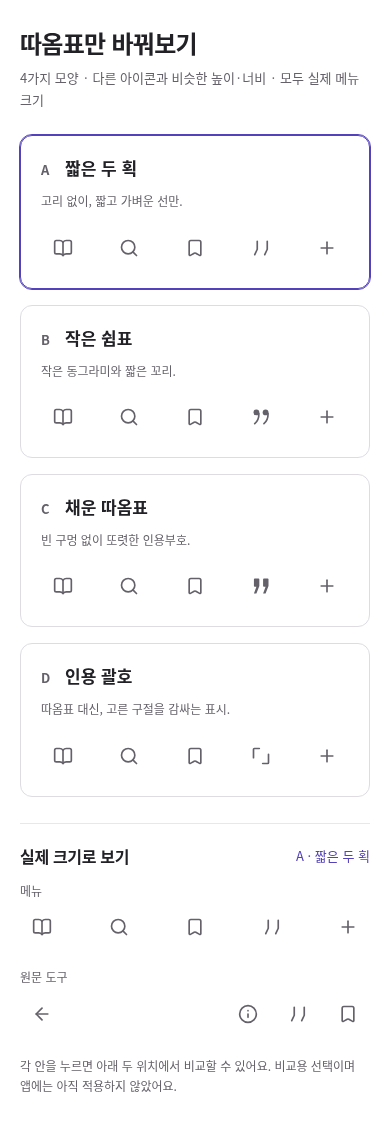
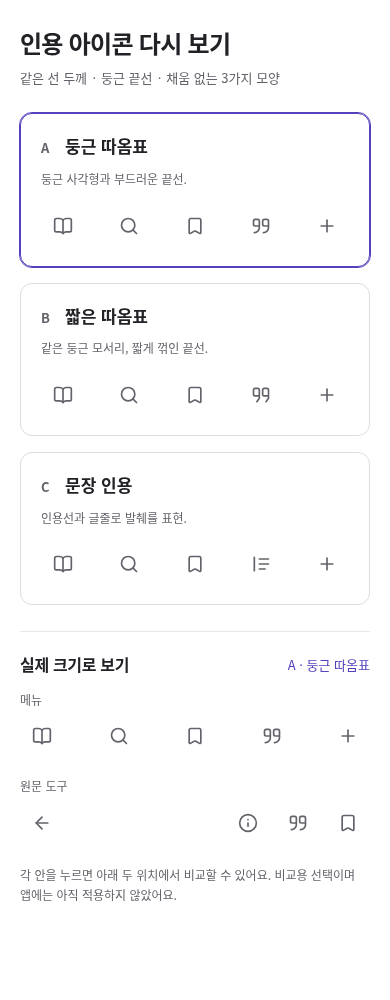
Redraw quote options in the neighboring outline style

diff --git a/assets/design-social/quote-options.js b/assets/design-social/quote-options.js
@@ -1,4 +1,4 @@
-/* Four original quote candidates. Neighbor SVGs: Lucide 1.51.0;
+/* Three original outline candidates. Neighbor SVGs: Lucide 1.51.0;
    source and ISC/Feather MIT notices: vendor/lucide/. Comparison only. */
 (() => {
   'use strict';
@@ -11,14 +11,12 @@
   "info": "<circle cx=\"12\" cy=\"12\" r=\"10\" /><path d=\"M12 16v-4\" /><path d=\"M12 8h.01\" />"
 };
   const options = [
-    { id:'a', name:'짧은 두 획', description:'고리 없이, 짧고 가벼운 선만.',
-      shape:'<path d="M7.5 4v9.5L4.5 20M19.5 4v9.5L16.5 20"/>' },
-    { id:'b', name:'작은 쉼표', description:'작은 동그라미와 짧은 꼬리.',
-      shape:'<circle cx="6.5" cy="6.5" r="3.5" fill="currentColor" stroke="none"/><path d="M9.5 8c0 5-1.5 9-5 12"/><circle cx="17.5" cy="6.5" r="3.5" fill="currentColor" stroke="none"/><path d="M20.5 8c0 5-1.5 9-5 12"/>' },
-    { id:'c', name:'채운 따옴표', description:'빈 구멍 없이 또렷한 인용부호.',
-      shape:'<path fill="currentColor" stroke="none" d="M4.5 3a1 1 0 0 0-1 1v8a1 1 0 0 0 1 1h2l-3 8h3L10 12V4a1 1 0 0 0-1-1Z M15.5 3a1 1 0 0 0-1 1v8a1 1 0 0 0 1 1h2l-3 8h3L21 12V4a1 1 0 0 0-1-1Z"/>' },
-    { id:'d', name:'인용 괄호', description:'따옴표 대신, 고른 구절을 감싸는 표시.',
-      shape:'<path d="M10 3H4a1 1 0 0 0-1 1v10M14 21h6a1 1 0 0 0 1-1V10"/>' }
+    { id:'a', name:'둥근 따옴표', description:'둥근 사각형과 부드러운 끝선.',
+      shape:'<path d="M10 12H5a2 2 0 0 1-2-2V6a2 2 0 0 1 2-2h3a2 2 0 0 1 2 2v8a6 6 0 0 1-6 6M21 12h-5a2 2 0 0 1-2-2V6a2 2 0 0 1 2-2h3a2 2 0 0 1 2 2v8a6 6 0 0 1-6 6"/>' },
+    { id:'b', name:'짧은 따옴표', description:'같은 둥근 모서리, 짧게 꺾인 끝선.',
+      shape:'<path d="M10 13H5a2 2 0 0 1-2-2V6a2 2 0 0 1 2-2h3a2 2 0 0 1 2 2v10l-3 4M21 13h-5a2 2 0 0 1-2-2V6a2 2 0 0 1 2-2h3a2 2 0 0 1 2 2v10l-3 4"/>' },
+    { id:'c', name:'문장 인용', description:'인용선과 글줄로 발췌를 표현.',
+      shape:'<path d="M4 4v16M10 6h11M10 12h11M10 18h7"/>' }
   ];
   const svg = (shape,size=20) => `<svg class="s-glyph" width="${size}" height="${size}" viewBox="0 0 24 24" fill="none" stroke="currentColor" stroke-width="2" stroke-linecap="round" stroke-linejoin="round" aria-hidden="true" focusable="false">${shape}</svg>`;
   const cell = (name,shape) => `<span class="q-icon-cell ${name==='quote'?'is-quote':''}" data-glyph="${name}">${svg(shape)}</span>`;

diff --git a/quote-sample.html b/quote-sample.html
@@ -4,14 +4,14 @@
   <meta charset="utf-8">
   <meta name="viewport" content="width=device-width, initial-scale=1">
   <meta name="robots" content="noindex">
-  <title>해도 · 따옴표 4안 비교</title>
+  <title>해도 · 인용 아이콘 3안 비교</title>
   <link rel="icon" href="icon.svg" type="image/svg+xml">
   <link rel="stylesheet" href="assets/design-social/ui.css">
   <link rel="stylesheet" href="assets/design-social/quote-options.css">
 </head>
 <body data-concept="thread">
   <main class="q-board">
-    <header class="q-heading"><h1>따옴표만 바꿔보기</h1><p>4가지 모양 · 다른 아이콘과 비슷한 높이·너비 · 모두 실제 메뉴 크기</p></header>
+    <header class="q-heading"><h1>인용 아이콘 다시 보기</h1><p>같은 선 두께 · 둥근 끝선 · 채움 없는 3가지 모양</p></header>
     <div class="q-grid" id="quoteOptions" role="group" aria-label="따옴표 시안 선택"></div>
     <section class="q-preview" aria-labelledby="quotePreviewTitle">
       <div class="q-preview-heading"><h2 id="quotePreviewTitle">실제 크기로 보기</h2><p id="quoteChoice" role="status"></p></div>

diff --git a/docs/design-review/quote-options.md b/docs/design-review/quote-options.md
@@ -1,18 +1,23 @@
-# 따옴표 4안 비교
+# 인용 아이콘 — 윤곽선 3안
 
-2026-10-04 KST. 사용자가 다른 아이콘에는 긍정적으로 반응했고 현재의 속이 빈 따옴표 모양만 다시 비교해 달라고 요청했다. 다른 아이콘·색·메뉴 위치·20px 크기를 유지하고 따옴표 후보만 바꿨다. 기본 시안의 따옴표를 임의로 확정·교체하지 않았다.
+2026-10-04 KST. 크기를 맞춘 이전 후보도 주변 아이콘과 스타일이 다르다는 사용자 피드백을 반영했다. 이전 후보의 채움·점·가는 쉼표는 책·검색·북마크의 일정한 윤곽선과 무게가 달랐다. SVG의 영역만 맞추는 것으로는 해결되지 않았다.
 
-![다른 아이콘과 크기를 맞춘 네 가지 따옴표](evidence/quotes/four-options.png)
+![주변 아이콘과 같은 윤곽선으로 다시 그린 인용 아이콘 3안](evidence/quotes/outline-options.png)
 
-| 안 | 형태 | 비교할 점 |
+세 안 모두 채움 없이 24×24 좌표계, 2단위 선, 둥근 선 끝·이음, 회색, 실제 20px 크기와 44px 영역을 사용한다. A/B의 사각 부분은 책·북마크와 같은 2단위 모서리 반경이다. 주변 아이콘은 그대로 두고 따옴표의 내부 여백과 끝선 형태까지 다시 그렸다.
+
+| 안 | 형태 | 판단 |
 | --- | --- | --- |
-| A · 짧은 두 획 | 고리와 채움 없는 짧은 선 | 주변 선형 아이콘에 가장 가볍게 맞지만 작은 크기에서 인용 뜻이 약해질 수 있음 |
-| B · 작은 쉼표 | 작은 둥근 점과 짧은 꼬리 | 둥근 인상과 익숙한 인용 뜻을 함께 비교. 첫 추천 후보 |
-| C · 채운 따옴표 | 속을 채운 짧은 인용부호 | 작은 크기에서도 또렷하나 선형 아이콘보다 무게가 있음 |
-| D · 인용 괄호 | 선택한 구절을 감싸는 두 모서리 | 따옴표 대신 발췌 범위를 나타내는 대안. 사용자에게 뜻이 명확한지 확인 필요 |
+| **A · 둥근 따옴표 — 추천** | 둥근 사각 윤곽과 한 줄로 이어지는 곡선 | 따옴표의 뜻을 유지하면서 주변의 둥근 선형 아이콘과 가장 자연스럽게 이어짐 |
+| B · 짧은 따옴표 | 같은 사각 윤곽과 짧게 꺾인 끝선 | 곡선보다 단정한 형태를 원할 때 비교할 대안 |
+| C · 문장 인용 | 왼쪽 인용선과 세 개의 글줄 | 따옴표 자체를 쓰지 않고 발췌한 문장을 나타내는 대안. 실제 사용자에게 의미가 명확한지는 별도 확인 필요 |
 
-후속 요청에 따라 네 후보의 도형을 키워 주변 아이콘과 눈에 보이는 높이·너비를 맞췄다. 확대 그림을 제거하고 실제 메뉴의 20px SVG만 보여준다. 주변 아이콘과 같은 회색·중앙 정렬·44px 영역을 사용하며 선형 후보의 선 두께도 기존 2로 맞췄다. A의 테두리는 비교 페이지의 초기 선택일 뿐 추천 확정·앱 적용을 뜻하지 않는다. 선택을 바꾸면 아래 메뉴·원문 도구가 함께 갱신된다.
+`npm run dev` 후 `quote-sample.html`에서 각 안을 누르면 메뉴·원문 도구의 미리보기가 함께 바뀐다. A의 초기 선택과 추천은 사용자 확정이나 앱 적용을 뜻하지 않는다. [1440px](evidence/quotes/board-1440.png), [820px](evidence/quotes/board-820.png), [390px](evidence/quotes/board-390.png)에서 볼 수 있다. [이전 4안](https://github.com/wonchance-art/life-haedo/blob/e30e296b901ffe28b500d93a38ef87d876c81dff/docs/design-review/quote-options.md)은 비교 이력이다.
 
-`npm run dev` 후 `quote-sample.html`에서 눌러 비교한다. [큰 화면](evidence/quotes/board-1080.png), [820px](evidence/quotes/board-820.png), [390px](evidence/quotes/board-390.png). 네 따옴표 후보는 직접 작성한 단순 SVG이며, 주변 아이콘은 기존 [Lucide 로컬 원본과 고지](../../vendor/lucide/README.md)를 재사용한다. 새 라이브러리·외부 요청·계정·저장 연결은 없다.
+새 후보는 직접 작성한 단순 SVG다. 기존 Lucide 따옴표의 복잡한 외곽과 앞선 채움형을 그대로 확대하지 않고, 주변 도형의 선·모서리를 따라 다시 구성했다. 주변 아이콘은 [Lucide 1.51.0 로컬 원본과 고지](../../vendor/lucide/README.md)를 재사용한다. 새 라이브러리나 외부 요청은 없다.
 
-Linux Chromium에서 크기 보정 후 1080·820·390px의 3장면, 각 폭의 4안 선택 총 12회와 키보드 Tab/Space 선택을 확인했다. 후보 선택 상태가 한 개만 표시되고 메뉴·원문 도구의 미리보기 둘 다 바뀌는지, 카드의 접근 가능한 이름·44px 이상 조작 영역·20px 실제 아이콘·가로 넘침을 확인했다. 콘솔/페이지 오류·외부 요청은 0건. 비교표와 390px 이미지를 직접 검토했으며 실기 체험이나 사용자 선호 검증은 아니다. 정적 HTML 16/JS 32/참조 171/PWA 통과. 확인 스크립트·보고서는 `.local/design-review/quotes/`에 있다.
+## 이번 확인
+
+- **동작:** Linux Chromium의 1440·820·390px에서 3안 선택 총 9회와 각 폭의 Tab/Space 선택. 하나의 선택 상태, 메뉴·원문 도구 갱신, 접근 가능한 이름, 44px 이상 조작 영역, 20px 아이콘, 가로 넘침을 확인했다. 콘솔·페이지 오류와 외부 요청 0건. 정적 HTML 16/JS 32/참조 171/PWA 통과.
+- **시각:** 실제 크기의 비교표와 390px 전체 이미지를 직접 검토했다. 같은 윤곽선·색·중심과 한글 줄바꿈을 확인했으며 A를 추천한다. 이는 시각적 판단이지 사용자 선호 검증은 아니다.
+- **범위:** 비교 시안만 수정했다. 실제 Mac/iPad/iPhone 체험이나 공개 배포를 하지 않았으며 운영 앱의 인증·저장·동기화·백업·발췌 코드는 변경하지 않았다. 확인 스크립트와 이번 보고서는 `.local/design-review/quotes/`에 있다.

diff --git a/DESIGN.md b/DESIGN.md
@@ -19,7 +19,7 @@
 
 ## 아이콘과 접근성
 
-사용자는 나머지 아이콘에 긍정적인 반응을 보였고, 속이 빈 따옴표 모양만 재검토를 요청했다. 따옴표는 [4개 후보](docs/design-review/quote-options.md)를 비교 중이며 아직 확정하지 않았다. `quote-sample.html`은 비교 화면이고 기본 시안에 후보를 자동 적용하지 않는다.
+사용자는 나머지 아이콘에 긍정적인 반응을 보였지만 따옴표의 스타일이 어울리지 않는다고 지적했다. 크기 보정만으로 해결되지 않아 채움·점·과장된 꼬리를 덜고 [윤곽선 3개 후보](docs/design-review/quote-options.md)를 다시 비교한다. 선 두께·둥근 모서리·내부 여백까지 주변 아이콘과 함께 검토한다. `quote-sample.html`은 비교 화면이고 기본 시안에 후보를 자동 적용하지 않는다.
 
 책·돋보기·북마크·따옴표·더하기·뒤로·정보·필터는 [Lucide 1.51.0의 로컬 SVG](vendor/lucide/README.md)를 재사용한다. 같은 24×24 좌표계와 2단위 둥근 선을 유지하고, 메뉴는 20×20px 그림을 44×44px 조작 영역의 중앙에 놓는다. 그림을 가로·세로로 늘리거나 글꼴의 문양으로 대체하지 않는다. 글자 옆 보조 아이콘은 16/18px로 구분한다. 화면에서 메뉴 이름을 계속 노출하지 않더라도 `aria-label`은 유지한다. hover와 키보드 초점에는 짧은 도움말을 표시하고 Escape로 닫는다. 모바일 조작은 hover를 요구하지 않는다. 아이콘만 보고 뜻을 이해하는지의 실제 사용자 체험은 별도 확인 사항이다.
 

diff --git a/docs/design-review/README.md b/docs/design-review/README.md
@@ -4,7 +4,7 @@
 
 ## 최신 시안 03
 
-**따옴표는 다시 비교 중입니다. [따옴표 4안 보기](quote-options.md)** — 다른 아이콘과 프레임은 유지하고 모양만 비교합니다.
+**인용 아이콘은 다시 비교 중입니다. [윤곽선 3안 보기](quote-options.md)** — 주변 아이콘의 선·모서리·여백에 맞춰 다시 그렸습니다.
 
 따옴표와 아이콘 정렬을 추가로 다듬었습니다. **[최신 아이콘과 화면](icon-refinement.md)**에서 확인할 수 있습니다. 아래 03 기본 캡처는 아이콘 보정 전의 배치 기록입니다.
 
